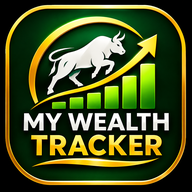
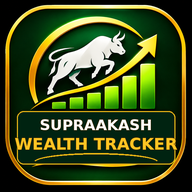
Update Supraakash Wealth Tracker v3.8.1

Changed region(s): [[0.0625, 0.5625, 0.9375, 0.875]]

diff --git a/index.html b/index.html
@@ -6,7 +6,7 @@
 <meta name="theme-color" content="#245b43">
 <meta name="mobile-web-app-capable" content="yes">
 <meta name="apple-mobile-web-app-capable" content="yes">
-<title>MY WEALTH TRACKER — v3.8.0 Dark Visibility Fix</title>
+<title>Supraakash Wealth Tracker — v3.8.1</title>
 <style>
 :root{
   --bg:#f4f5f2;
@@ -572,13 +572,39 @@ body.dark-mode .metric.pnl-neutral .metric-icon {
   color:#e5edf6!important;
   opacity:1!important;
 }
+
+/* v3.8.1 — restrained, lightweight motion; no changes to accounting logic */
+:root{--motion-fast:180ms;--motion-mid:320ms;--motion-ease:cubic-bezier(.2,.75,.25,1)}
+.app-splash{position:fixed;inset:0;z-index:9999;display:flex;flex-direction:column;align-items:center;justify-content:center;background:radial-gradient(circle at 50% 38%,#315d4b 0%,#183c30 48%,#10271f 100%);color:#fff;transition:opacity .45s ease,visibility .45s ease}
+.app-splash.is-hidden{opacity:0;visibility:hidden;pointer-events:none}
+.splash-mark{width:96px;height:96px;padding:12px;border:1px solid rgba(255,200,114,.5);border-radius:26px;background:rgba(255,255,255,.08);box-shadow:0 12px 40px rgba(0,0,0,.22);animation:splashRise .8s var(--motion-ease) both}
+.splash-mark svg{width:100%;height:100%}.splash-title{margin-top:22px;font-size:23px;font-weight:850;letter-spacing:.12em;color:#fff;animation:splashFade .65s .18s both}.splash-subtitle{margin-top:5px;font-size:12px;letter-spacing:.28em;color:#f0c872;animation:splashFade .65s .3s both}
+.splash-loader{width:116px;height:3px;margin-top:28px;overflow:hidden;border-radius:8px;background:rgba(255,255,255,.18);animation:splashFade .5s .35s both}.splash-loader span{display:block;width:42%;height:100%;border-radius:8px;background:#f0c872;animation:loaderSweep 1.05s ease-in-out infinite}
+@keyframes splashRise{from{opacity:0;transform:translateY(18px) scale(.9)}to{opacity:1;transform:translateY(0) scale(1)}}
+@keyframes splashFade{from{opacity:0;transform:translateY(8px)}to{opacity:1;transform:translateY(0)}}
+@keyframes loaderSweep{from{transform:translateX(-120%)}to{transform:translateX(290%)}}
+.card,.notice,.section,.tablewrap{animation:contentEnter .42s var(--motion-ease) both}
+@keyframes contentEnter{from{opacity:.45;transform:translateY(8px)}to{opacity:1;transform:translateY(0)}}
+button,.btn,.tab,input,select{transition:background-color var(--motion-fast) ease,border-color var(--motion-fast) ease,box-shadow var(--motion-fast) ease,transform var(--motion-fast) ease}
+button:active,.btn:active{transform:scale(.975)}
+.card{transition:box-shadow var(--motion-mid) ease,border-color var(--motion-mid) ease,transform var(--motion-mid) ease}
+.card:hover{transform:translateY(-2px);box-shadow:0 7px 18px rgba(38,59,56,.09)!important}
+.page:not(.hidden){animation:pageEnter .28s var(--motion-ease) both}
+@keyframes pageEnter{from{opacity:.55;transform:translateY(5px)}to{opacity:1;transform:translateY(0)}}
+.tab.active{transition:all .22s var(--motion-ease)}
+@media(prefers-reduced-motion:reduce){*,*::before,*::after{animation-duration:.01ms!important;animation-iteration-count:1!important;scroll-behavior:auto!important;transition-duration:.01ms!important}.app-splash{transition:none}}
+
 </style>
 </head>
 <body>
+<div id="appSplash" class="app-splash" aria-label="Opening Supraakash Wealth Tracker">
+  <div class="splash-mark"><svg viewBox="0 0 72 72" aria-hidden="true"><path d="M8 57h13V43H8zM28 57h13V31H28zM48 57h13V17H48z" fill="#BFE8FF"/><path d="M8 34 27 22l12 7L61 8" fill="none" stroke="#FFC872" stroke-width="5" stroke-linecap="round" stroke-linejoin="round"/><path d="M49 8h12v12" fill="none" stroke="#FFC872" stroke-width="5" stroke-linecap="round" stroke-linejoin="round"/></svg></div>
+  <div class="splash-title">SUPRAAKASH</div><div class="splash-subtitle">WEALTH TRACKER</div><div class="splash-loader"><span></span></div>
+</div>
 <header class="app-header">
   <div class="header-main">
     <div class="brand-mark" aria-hidden="true"><svg viewBox="0 0 72 72"><path d="M8 57h13V43H8zM28 57h13V31H28zM48 57h13V17H48z" fill="#BFE8FF"/><path d="M8 34 27 22l12 7L61 8" fill="none" stroke="#FFC872" stroke-width="5" stroke-linecap="round" stroke-linejoin="round"/><path d="M49 8h12v12" fill="none" stroke="#FFC872" stroke-width="5" stroke-linecap="round" stroke-linejoin="round"/></svg></div>
-    <div class="header-copy"><div class="brand">MY WEALTH TRACKER</div><div class="sub">Trading&nbsp; • &nbsp;Investing&nbsp; • &nbsp;Portfolio&nbsp; • &nbsp;Performance</div></div>
+    <div class="header-copy"><div class="brand">SUPRAAKASH <span>WEALTH TRACKER</span></div><div class="sub">Trading&nbsp; • &nbsp;Investing&nbsp; • &nbsp;Portfolio&nbsp; • &nbsp;Performance</div></div>
     <div class="header-tools"><button type="button" class="header-tool header-tool-btn" id="openSettings" title="Settings" aria-label="Open Settings">⚙</button></div>
   </div>
   <div class="header-actions">
@@ -648,7 +674,7 @@ body.dark-mode .metric.pnl-neutral .metric-icon {
   </div>
   <div class="card" style="margin-top:12px">
     <h3>6. App Information & Help</h3>
-    <div class="kpi"><span>Application</span><b>MY WEALTH TRACKER</b></div>
+    <div class="kpi"><span>Application</span><b>SUPRAAKASH WEALTH TRACKER</b></div>
     <div class="kpi"><span>Version</span><b>3.8.0 · Dark Visibility Fix</b></div>
     <div class="kpi"><span>Accounting</span><b id="settingsAccountingMethod">FIFO</b></div>
     <div class="kpi"><span>Market / Broker connection</span><b>Manual · No live Zerodha API</b></div>
@@ -760,11 +786,13 @@ body.dark-mode .metric.pnl-neutral .metric-icon {
   </details>
   <div class="local-data-note"><div class="notice" style="border-color:#cbd9e8;background:#edf5f1;color:#315b50">Local accounting prototype: records are saved in this browser and can be exported as a backup. Secure cloud sync is not connected. No live prices or broker API are used. Old Tradebook archive is separate and excluded from accounting.</div></div>
 </div>
-<footer>MY WEALTH TRACKER v3.8.0 • Dark Visibility Fix • Local prototype • Back up your data regularly • Not connected to live Zerodha data</footer>
+<footer>SUPRAAKASH WEALTH TRACKER v3.8.1 • Smooth Motion Edition • Local prototype • Back up your data regularly • Not connected to live Zerodha data</footer>
 </div>
-<div id="pinLockScreen" class="hidden" role="dialog" aria-modal="true" aria-label="App locked"><div class="pin-dialog"><h2>🔒 MY WEALTH TRACKER</h2><p>Enter your 6-digit PIN to unlock</p><input id="unlockPin" type="password" inputmode="numeric" maxlength="6" autocomplete="off" placeholder="••••••"><button class="primary" id="unlockBtn">Unlock App</button><div class="pin-help" id="unlockStatus">Your records stay on this device. PIN is a local privacy lock.</div></div></div>
+<div id="pinLockScreen" class="hidden" role="dialog" aria-modal="true" aria-label="App locked"><div class="pin-dialog"><h2>🔒 SUPRAAKASH WEALTH TRACKER</h2><p>Enter your 6-digit PIN to unlock</p><input id="unlockPin" type="password" inputmode="numeric" maxlength="6" autocomplete="off" placeholder="••••••"><button class="primary" id="unlockBtn">Unlock App</button><div class="pin-help" id="unlockStatus">Your records stay on this device. PIN is a local privacy lock.</div></div></div>
 <script>
 const KEY='mwt_v1_data';
+// Opening animation only; this does not read or modify app records.
+window.addEventListener('load',()=>{const splash=document.getElementById('appSplash');if(splash){const delay=window.matchMedia('(prefers-reduced-motion: reduce)').matches?80:1250;window.setTimeout(()=>splash.classList.add('is-hidden'),delay);}});
 const INITIAL_LEGACY_TRADES="[{\"date\":\"2026-09-25\",\"symbol\":\"DELTACORP\",\"type\":\"BUY\",\"qty\":10.0,\"price\":76.760002,\"time\":\"2026-09-25T13:43:44\",\"tradeId\":\"206539384\",\"orderId\":\"1100000056895513\",\"isin\":\"INE124G01033\",\"classification\":\"Unclassified\",\"note\":\"Imported from historical Zerodha Tradebook; excluded from new portfolio and P&L until MIS/CNC is verified.\"},{\"date\":\"2026-09-29\",\"symbol\":\"ACC\",\"type\":\"SELL\",\"qty\":4.0,\"price\":1198.599976,\"time\":\"2026-09-29T09:28:02\",\"tradeId\":\"647383\",\"orderId\":\"1000000005719554\",\"isin\":\"INE012A01025\",\"classification\":\"Unclassified\",\"note\":\"Imported from historical Zerodha Tradebook; excluded from new portfolio and P&L until MIS/CNC is verified.\"},{\"date\":\"2026-09-29\",\"symbol\":\"ACC\",\"type\":\"BUY\",\"qty\":4.0,\"price\":1204.699951,\"time\":\"2026-09-29T15:15:08\",\"tradeId\":\"8665332\",\"orderId\":\"1000000073764660\",\"isin\":\"INE012A01025\",\"classification\":\"Unclassified\",\"note\":\"Imported from historical Zerodha Tradebook; excluded from new portfolio and P&L until MIS/CNC is verified.\"},{\"date\":\"2026-09-30\",\"symbol\":\"RECLTD\",\"type\":\"SELL\",\"qty\":10.0,\"price\":296.75,\"time\":\"2026-09-30T09:16:26\",\"tradeId\":\"600215701\",\"orderId\":\"1300000001347661\",\"isin\":\"INE020B01018\",\"classification\":\"Unclassified\",\"note\":\"Imported from historical Zerodha Tradebook; excluded from new portfolio and P&L until MIS/CNC is verified.\"},{\"date\":\"2026-09-30\",\"symbol\":\"DEEPAKNTR\",\"type\":\"SELL\",\"qty\":1.0,\"price\":1543.199951,\"time\":\"2026-09-30T09:19:20\",\"tradeId\":\"200497236\",\"orderId\":\"1100000003000851\",\"isin\":\"INE288B01029\",\"classification\":\"Unclassified\",\"note\":\"Imported from historical Zerodha Tradebook; excluded from new portfolio and P&L until MIS/CNC is verified.\"},{\"date\":\"2026-09-30\",\"symbol\":\"GODREJCP\",\"type\":\"SELL\",\"qty\":1.0,\"price\":853.049988,\"time\":\"2026-09-30T09:31:16\",\"tradeId\":\"201455259\",\"orderId\":\"1100000008765561\",\"isin\":\"INE102D01028\",\"classification\":\"Unclassified\",\"note\":\"Imported from historical Zerodha Tradebook; excluded from new portfolio and P&L until MIS/CNC is verified.\"},{\"date\":\"2026-09-30\",\"symbol\":\"RECLTD\",\"type\":\"BUY\",\"qty\":10.0,\"price\":300.899994,\"time\":\"2026-09-30T11:55:10\",\"tradeId\":\"605696804\",\"orderId\":\"1300000046813416\",\"isin\":\"INE020B01018\",\"classification\":\"Unclassified\",\"note\":\"Imported from historical Zerodha Tradebook; excluded from new portfolio and P&L until MIS/CNC is verified.\"},{\"date\":\"2026-09-30\",\"symbol\":\"GODREJCP\",\"type\":\"BUY\",\"qty\":1.0,\"price\":855.700012,\"time\":\"2026-09-30T12:40:06\",\"tradeId\":\"206948715\",\"orderId\":\"1100000053996359\",\"isin\":\"INE102D01028\",\"classification\":\"Unclassified\",\"note\":\"Imported from historical Zerodha Tradebook; excluded from new portfolio and P&L until MIS/CNC is verified.\"},{\"date\":\"2026-09-30\",\"symbol\":\"UBL\",\"type\":\"SELL\",\"qty\":3.0,\"price\":1169.5,\"time\":\"2026-09-30T12:42:39\",\"tradeId\":\"607113900\",\"orderId\":\"1300000058076419\",\"isin\":\"INE686F01025\",\"classification\":\"Unclassified\",\"note\":\"Imported from historical Zerodha Tradebook; excluded from new portfolio and P&L until MIS/CNC is verified.\"},{\"date\":\"2026-09-30\",\"symbol\":\"DEEPAKNTR\",\"type\":\"BUY\",\"qty\":1.0,\"price\":1530.800049,\"time\":\"2026-09-30T15:06:14\",\"tradeId\":\"211674211\",\"orderId\":\"1100000087661298\",\"isin\":\"INE288B01029\",\"classification\":\"Unclassified\",\"note\":\"Imported from historical Zerodha Tradebook; excluded from new portfolio and P&L until MIS/CNC is verified.\"},{\"date\":\"2026-09-30\",\"symbol\":\"UBL\",\"type\":\"BUY\",\"qty\":3.0,\"price\":1156.0,\"time\":\"2026-09-30T15:14:57\",\"tradeId\":\"612416024\",\"orderId\":\"1300000094772008\",\"isin\":\"INE686F01025\",\"classification\":\"Unclassified\",\"note\":\"Imported from historical Zerodha Tradebook; excluded from new portfolio and P&L until MIS/CNC is verified.\"},{\"date\":\"2026-10-01\",\"symbol\":\"LUPIN\",\"type\":\"SELL\",\"qty\":1.0,\"price\":2018.400024,\"time\":\"2026-10-01T09:22:58\",\"tradeId\":\"400629692\",\"orderId\":\"1200000005064029\",\"isin\":\"INE326A01037\",\"classification\":\"Unclassified\",\"note\":\"Imported from historical Zerodha Tradebook; excluded from new portfolio and P&L until MIS/CNC is verified.\"},{\"date\":\"2026-10-01\",\"symbol\":\"LUPIN\",\"type\":\"SELL\",\"qty\":1.0,\"price\":2018.699951,\"time\":\"2026-10-01T09:22:58\",\"tradeId\":\"400629691\",\"orderId\":\"1200000005064029\",\"isin\":\"INE326A01037\",\"classification\":\"Unclassified\",\"note\":\"Imported from historical Zerodha Tradebook; excluded from new portfolio and P&L until MIS/CNC is verified.\"},{\"date\":\"2026-10-01\",\"symbol\":\"LUPIN\",\"type\":\"BUY\",\"qty\":2.0,\"price\":2022.400024,\"time\":\"2026-10-01T15:12:32\",\"tradeId\":\"411472504\",\"orderId\":\"1200000100073026\",\"isin\":\"INE326A01037\",\"classification\":\"Unclassified\",\"note\":\"Imported from historical Zerodha Tradebook; excluded from new portfolio and P&L until MIS/CNC is verified.\"},{\"date\":\"2026-10-05\",\"symbol\":\"M&M\",\"type\":\"SELL\",\"qty\":1.0,\"price\":2857.5,\"time\":\"2026-10-05T09:00:02\",\"tradeId\":\"400002458\",\"orderId\":\"1200000000018962\",\"isin\":\"INE101A01026\",\"classification\":\"Unclassified\",\"note\":\"Imported from historical Zerodha Tradebook; excluded from new portfolio and P&L until MIS/CNC is verified.\"},{\"date\":\"2026-10-05\",\"symbol\":\"M&M\",\"type\":\"BUY\",\"qty\":1.0,\"price\":2852.100098,\"time\":\"2026-10-05T15:09:30\",\"tradeId\":\"410742114\",\"orderId\":\"1200000094394585\",\"isin\":\"INE101A01026\",\"classification\":\"Unclassified\",\"note\":\"Imported from historical Zerodha Tradebook; excluded from new portfolio and P&L until MIS/CNC is verified.\"},{\"date\":\"2026-10-12\",\"symbol\":\"PVRINOX\",\"type\":\"BUY\",\"qty\":1.0,\"price\":1358.400024,\"time\":\"2026-10-12T11:31:07\",\"tradeId\":\"404551862\",\"orderId\":\"1200000045059929\",\"isin\":\"INE191H01014\",\"classification\":\"Unclassified\",\"note\":\"Imported from historical Zerodha Tradebook; excluded from new portfolio and P&L until MIS/CNC is verified.\"},{\"date\":\"2026-10-12\",\"symbol\":\"PVRINOX\",\"type\":\"BUY\",\"qty\":1.0,\"price\":1358.5,\"time\":\"2026-10-12T11:31:07\",\"tradeId\":\"404551863\",\"orderId\":\"1200000045059929\",\"isin\":\"INE191H01014\",\"classification\":\"Unclassified\",\"note\":\"Imported from historical Zerodha Tradebook; excluded from new portfolio and P&L until MIS/CNC is verified.\"},{\"date\":\"2026-10-19\",\"symbol\":\"HBLENGINE\",\"type\":\"BUY\",\"qty\":2.0,\"price\":827.400024,\"time\":\"2026-10-19T09:00:04\",\"tradeId\":\"200021173\",\"orderId\":\"1100000000055117\",\"isin\":\"INE292B01021\",\"classification\":\"Unclassified\",\"note\":\"Imported from historical Zerodha Tradebook; excluded from new portfolio and P&L until MIS/CNC is verified.\"},{\"date\":\"2026-10-22\",\"symbol\":\"WIPRO\",\"type\":\"BUY\",\"qty\":4.0,\"price\":191.179993,\"time\":\"2026-10-22T10:46:46\",\"tradeId\":\"604016938\",\"orderId\":\"1300000042326716\",\"isin\":\"INE075A01022\",\"classification\":\"Unclassified\",\"note\":\"Imported from historical Zerodha Tradebook; excluded from new portfolio and P&L until MIS/CNC is verified.\"},{\"date\":\"2026-10-26\",\"symbol\":\"IGIL\",\"type\":\"BUY\",\"qty\":5.0,\"price\":382.799988,\"time\":\"2026-10-26T13:16:22\",\"tradeId\":\"208802786\",\"orderId\":\"1100000080110364\",\"isin\":\"INE0Q9301021\",\"classification\":\"Unclassified\",\"note\":\"Imported from historical Zerodha Tradebook; excluded from new portfolio and P&L until MIS/CNC is verified.\"},{\"date\":\"2026-10-26\",\"symbol\":\"IGIL\",\"type\":\"SELL\",\"qty\":5.0,\"price\":387.149994,\"time\":\"2026-10-26T13:33:24\",\"tradeId\":\"209220012\",\"orderId\":\"1100000084149113\",\"isin\":\"INE0Q9301021\",\"classification\":\"Unclassified\",\"note\":\"Imported from historical Zerodha Tradebook; excluded from new portfolio and P&L until MIS/CNC is verified.\"},{\"date\":\"2026-10-26\",\"symbol\":\"CYIENT\",\"type\":\"BUY\",\"qty\":2.0,\"price\":1243.699951,\"time\":\"2026-10-26T13:34:16\",\"tradeId\":\"6452691\",\"orderId\":\"1000000074701986\",\"isin\":\"INE136B01020\",\"classification\":\"Unclassified\",\"note\":\"Imported from historical Zerodha Tradebook; excluded from new portfolio and P&L until MIS/CNC is verified.\"},{\"date\":\"2026-11-04\",\"symbol\":\"DELTACORP\",\"type\":\"SELL\",\"qty\":10.0,\"price\":72.550003,\"time\":\"2026-11-04T09:00:06\",\"tradeId\":\"200022982\",\"orderId\":\"1100000000066874\",\"isin\":\"INE124G01033\",\"classification\":\"Unclassified\",\"note\":\"Imported from historical Zerodha Tradebook; excluded from new portfolio and P&L until MIS/CNC is verified.\"},{\"date\":\"2026-11-04\",\"symbol\":\"CYIENT\",\"type\":\"SELL\",\"qty\":2.0,\"price\":1120.400024,\"time\":\"2026-11-04T12:17:48\",\"tradeId\":\"4870007\",\"orderId\":\"1000000052666364\",\"isin\":\"INE136B01020\",\"classification\":\"Unclassified\",\"note\":\"Imported from historical Zerodha Tradebook; excluded from new portfolio and P&L until MIS/CNC is verified.\"},{\"date\":\"2026-11-05\",\"symbol\":\"PVRINOX\",\"type\":\"SELL\",\"qty\":1.0,\"price\":1602.400024,\"time\":\"2026-11-05T09:15:22\",\"tradeId\":\"400143466\",\"orderId\":\"1200000000720275\",\"isin\":\"INE191H01014\",\"classification\":\"Unclassified\",\"note\":\"Imported from historical Zerodha Tradebook; excluded from new portfolio and P&L until MIS/CNC is verified.\"},{\"date\":\"2026-11-05\",\"symbol\":\"PVRINOX\",\"type\":\"BUY\",\"qty\":3.0,\"price\":1605.0,\"time\":\"2026-11-05T10:17:22\",\"tradeId\":\"403780637\",\"orderId\":\"1200000033636695\",\"isin\":\"INE191H01014\",\"classification\":\"Unclassified\",\"note\":\"Imported from historical Zerodha Tradebook; excluded from new portfolio and P&L until MIS/CNC is verified.\"},{\"date\":\"2026-11-08\",\"symbol\":\"MOTILALOFS\",\"type\":\"BUY\",\"qty\":2.0,\"price\":1131.550049,\"time\":\"2026-11-08T14:20:27\",\"tradeId\":\"400077082\",\"orderId\":\"1200000000438922\",\"isin\":\"INE338I01027\",\"classification\":\"Unclassified\",\"note\":\"Imported from historical Zerodha Tradebook; excluded from new portfolio and P&L until MIS/CNC is verified.\"}]";
 let db=loadDB(), pendingCSV=[];
 let migrationSeq=Math.max(0,...db.tx.map(t=>Number(t.seq)||0));
@@ -1044,7 +1072,7 @@ document.getElementById('settingsImport').onclick=()=>backupFile.click();
 document.getElementById('settingsCsv').onclick=()=>document.getElementById('csvExport').click();
 function refreshNotifyStatus(){const el=document.getElementById('notifyStatus');el.textContent=('Notification' in window)?('Notification permission: '+Notification.permission):'Notifications are not supported by this browser.';}
 document.getElementById('requestNotify').onclick=async()=>{if(!('Notification' in window)){refreshNotifyStatus();return;}try{await Notification.requestPermission();refreshNotifyStatus();}catch(e){document.getElementById('notifyStatus').textContent='Could not request notification permission in this browser.';}};
-document.getElementById('testNotify').onclick=()=>{if(!('Notification' in window)){refreshNotifyStatus();return;}if(Notification.permission==='granted'){new Notification('MY WEALTH TRACKER',{body:'Test notification successful.'});}else{document.getElementById('notifyStatus').textContent=Notification.permission==='denied'?'Notifications are blocked by browser settings. Change permission in browser/site settings; this local file may not support notifications.':'Please enable notification permission first.';}};
+document.getElementById('testNotify').onclick=()=>{if(!('Notification' in window)){refreshNotifyStatus();return;}if(Notification.permission==='granted'){new Notification('SUPRAAKASH WEALTH TRACKER',{body:'Test notification successful.'});}else{document.getElementById('notifyStatus').textContent=Notification.permission==='denied'?'Notifications are blocked by browser settings. Change permission in browser/site settings; this local file may not support notifications.':'Please enable notification permission first.';}};
 applySavedSettings();refreshNotifyStatus();
 
 // Local privacy PIN. The verifier is salted and PBKDF2-derived; no plaintext PIN is saved.

diff --git a/sw.js b/sw.js
@@ -1,4 +1,4 @@
-const CACHE_NAME = 'mwt-v3-8-0-option1-installfix-shell';
+const CACHE_NAME = 'supraakash-v3-8-1-animated-shell';
 const APP_SHELL = ['./', './index.html', './manifest.webmanifest', './icon-192.png', './icon-512.png', './icon-512-maskable.png'];
 self.addEventListener('install', event => {
   event.waitUntil(caches.open(CACHE_NAME).then(cache => cache.addAll(APP_SHELL)).then(() => self.skipWaiting()));
